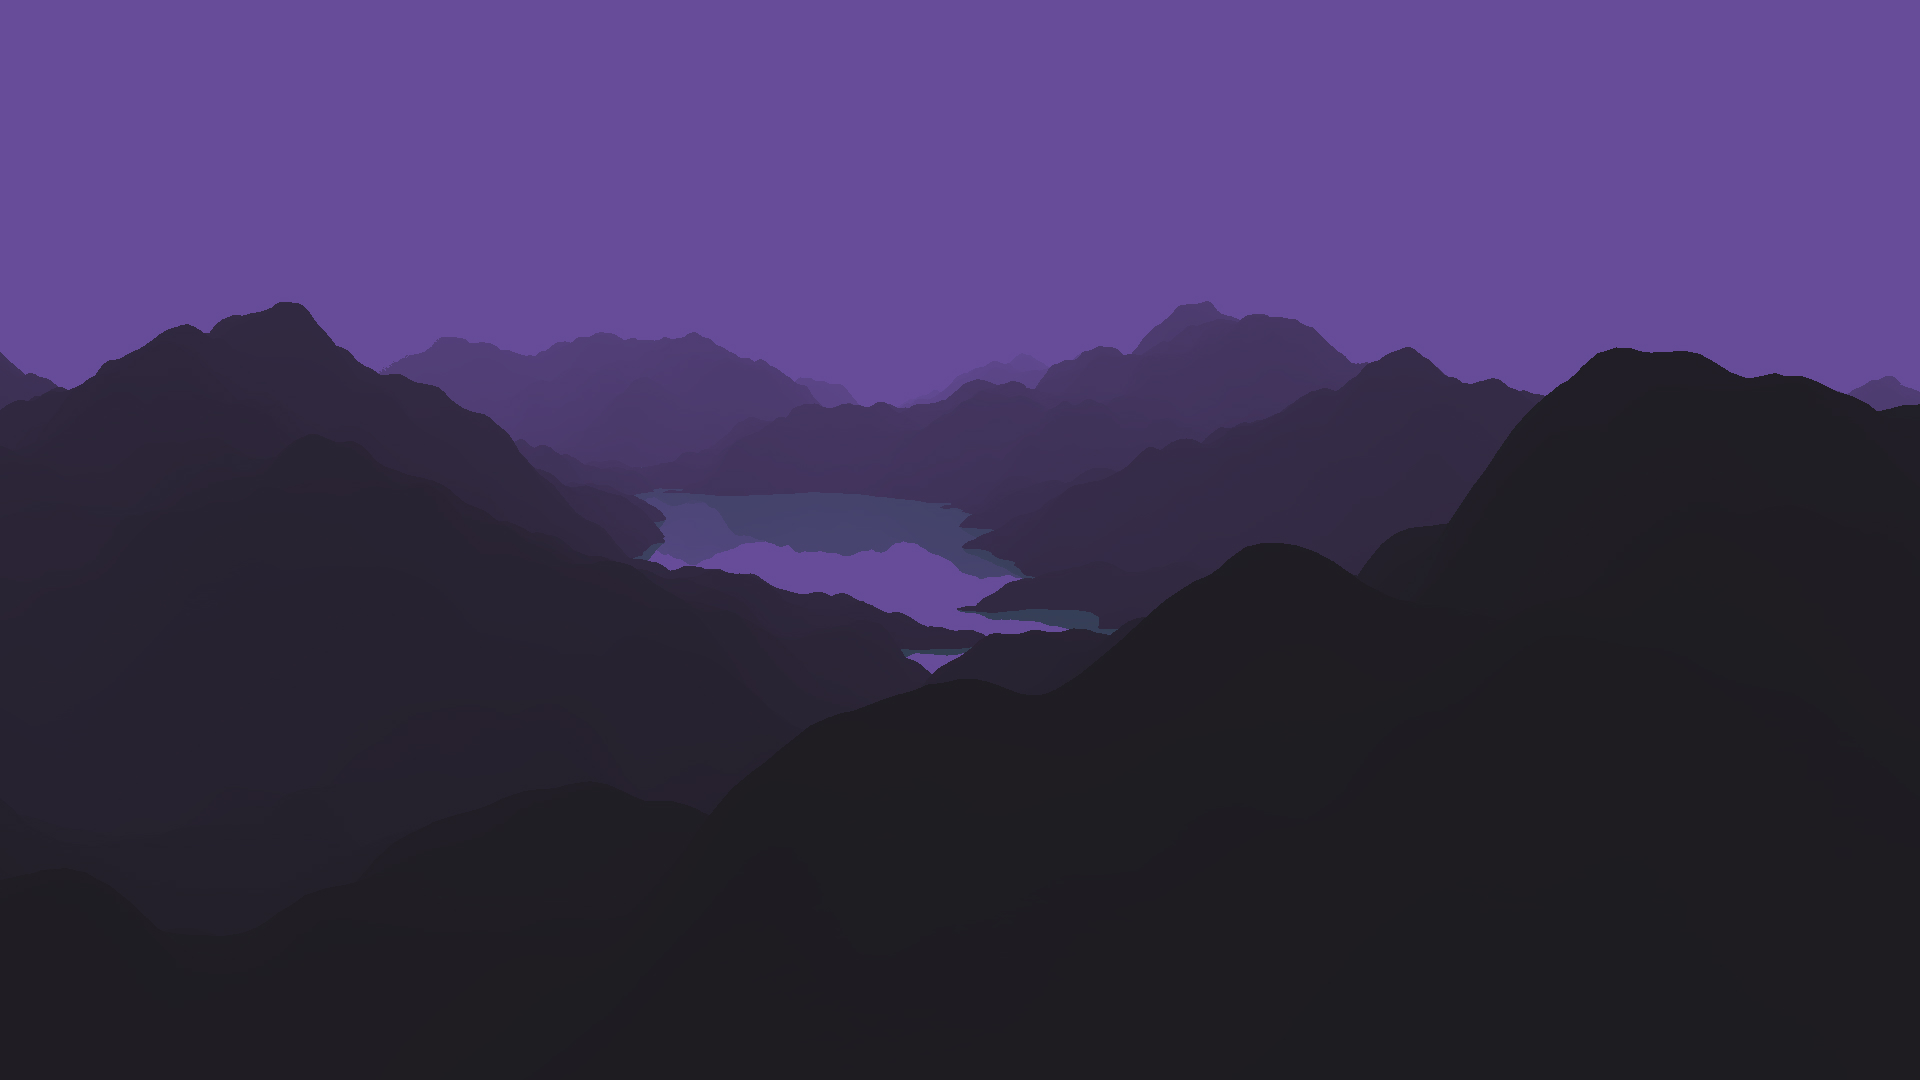
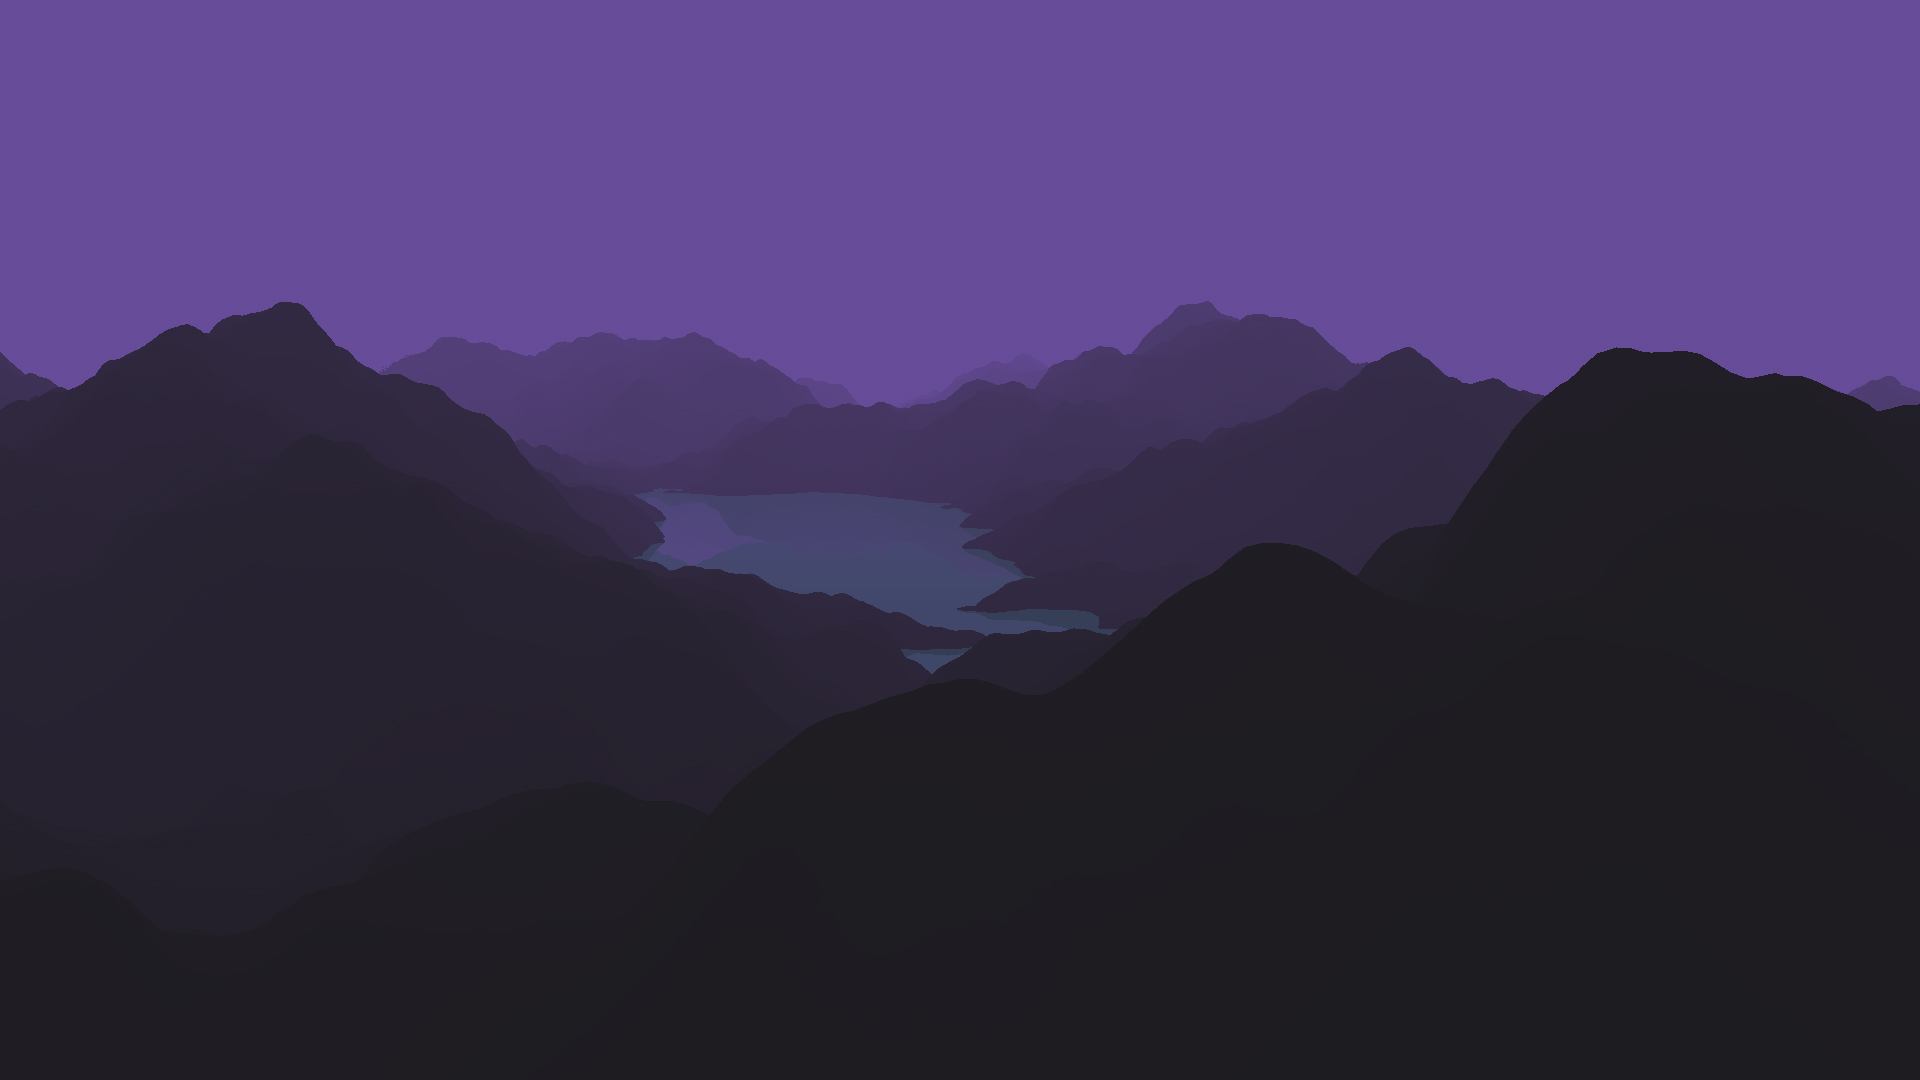
Move fog responsibility from RayTracer to World

Changed region(s): [[0.3438, 0.4889, 0.5625, 0.6417]]

diff --git a/src/world/World.cpp b/src/world/World.cpp
@@ -2,7 +2,9 @@
 
 #include "heightmap/HeightmapGenerator.h"
 
-World::World(unsigned int width, unsigned int length) : m_heightmap(width, length), m_water(-20.0f)
+#define LERP(a, b, x) (a + (b - a) * x)
+
+World::World(unsigned int width, unsigned int length) : m_heightmap(width, length), m_sky(), m_water(-20.0f)
 {
     HeightmapGenerator::generate(m_heightmap);
 }
@@ -33,7 +35,8 @@ TraceResult World::trace(const Rayf& ray) const
             reflectedRay.origin.y = m_water.getHeight();
             result = trace(reflectedRay);
             result.distance += distance;
-            result.diffuseColor = result.diffuseColor * Vec3f(0.25f) + Vec3f(0.1f, 0.2f, 0.2f);
+            result.color = result.color * Vec3f(0.25f) + Vec3f(0.1f, 0.2f, 0.2f);
+            result.color = LERP(result.color, m_sky.getColor(), result.distance / (sqrt(512.0f * 512.0f * 2.0f)));
             return result;
         }
 
@@ -45,7 +48,7 @@ TraceResult World::trace(const Rayf& ray) const
             if (currentPosition.y <= height) {
                 result.intersects = true;
                 result.distance = distance;
-                result.diffuseColor = Vec3f(0.1f, 0.1f, 0.1f);
+                result.color = LERP(Vec3f(0.1f, 0.1f, 0.1f), m_sky.getColor(), result.distance / (sqrt(512.0f * 512.0f * 2.0f)));
                 return result;
             }
         }
@@ -54,5 +57,6 @@ TraceResult World::trace(const Rayf& ray) const
         stepMultiplier = (currentPosition.y - std::max(height, m_water.getHeight())) / MAX_SLOPE + 0.125f;
     }
     result.intersects = false;
+    result.color = m_sky.getColor();
     return result;
 }

diff --git a/src/graphics/RayTracer.cpp b/src/graphics/RayTracer.cpp
@@ -4,7 +4,6 @@
 #include <algorithm>
 
 #define CLAMP(x, min, max) (x < min ? min : (x > max ? max : x))
-#define LERP(a, b, x) (a + (b - a) * x)
 
 RayTracer::RayTracer()
 {
@@ -33,6 +32,5 @@ void RayTracer::traceFullImage(RGBImage& image, Camera<float>& camera, const Ray
 Vec3f RayTracer::traceRay(const Rayf& ray, const RayTracable* object) const
 {
     TraceResult result = object->trace(ray);
-    Vec3f sky(0.2f, 0.8f, 0.7f);
-    return result.intersects ? LERP(result.diffuseColor, sky, result.distance / (sqrt(512.0f * 512.0f * 2.0f))) : sky;
+    return result.color;
 }

diff --git a/src/world/World.h b/src/world/World.h
@@ -1,6 +1,7 @@
 #pragma once
 
 #include "heightmap/Heightmap.h"
+#include "sky/Sky.h"
 #include "Water.h"
 
 class World : public RayTracable
@@ -13,5 +14,6 @@ public:
 
 private:
     Heightmap m_heightmap;
+    Sky m_sky;
     Water m_water;
 };

diff --git a/src/graphics/RayTracable.h b/src/graphics/RayTracable.h
@@ -6,8 +6,7 @@ struct TraceResult
 {
     bool intersects;
     float distance;
-    
-    Vec3f diffuseColor;
+    Vec3f color;
 };
 
 class RayTracable
